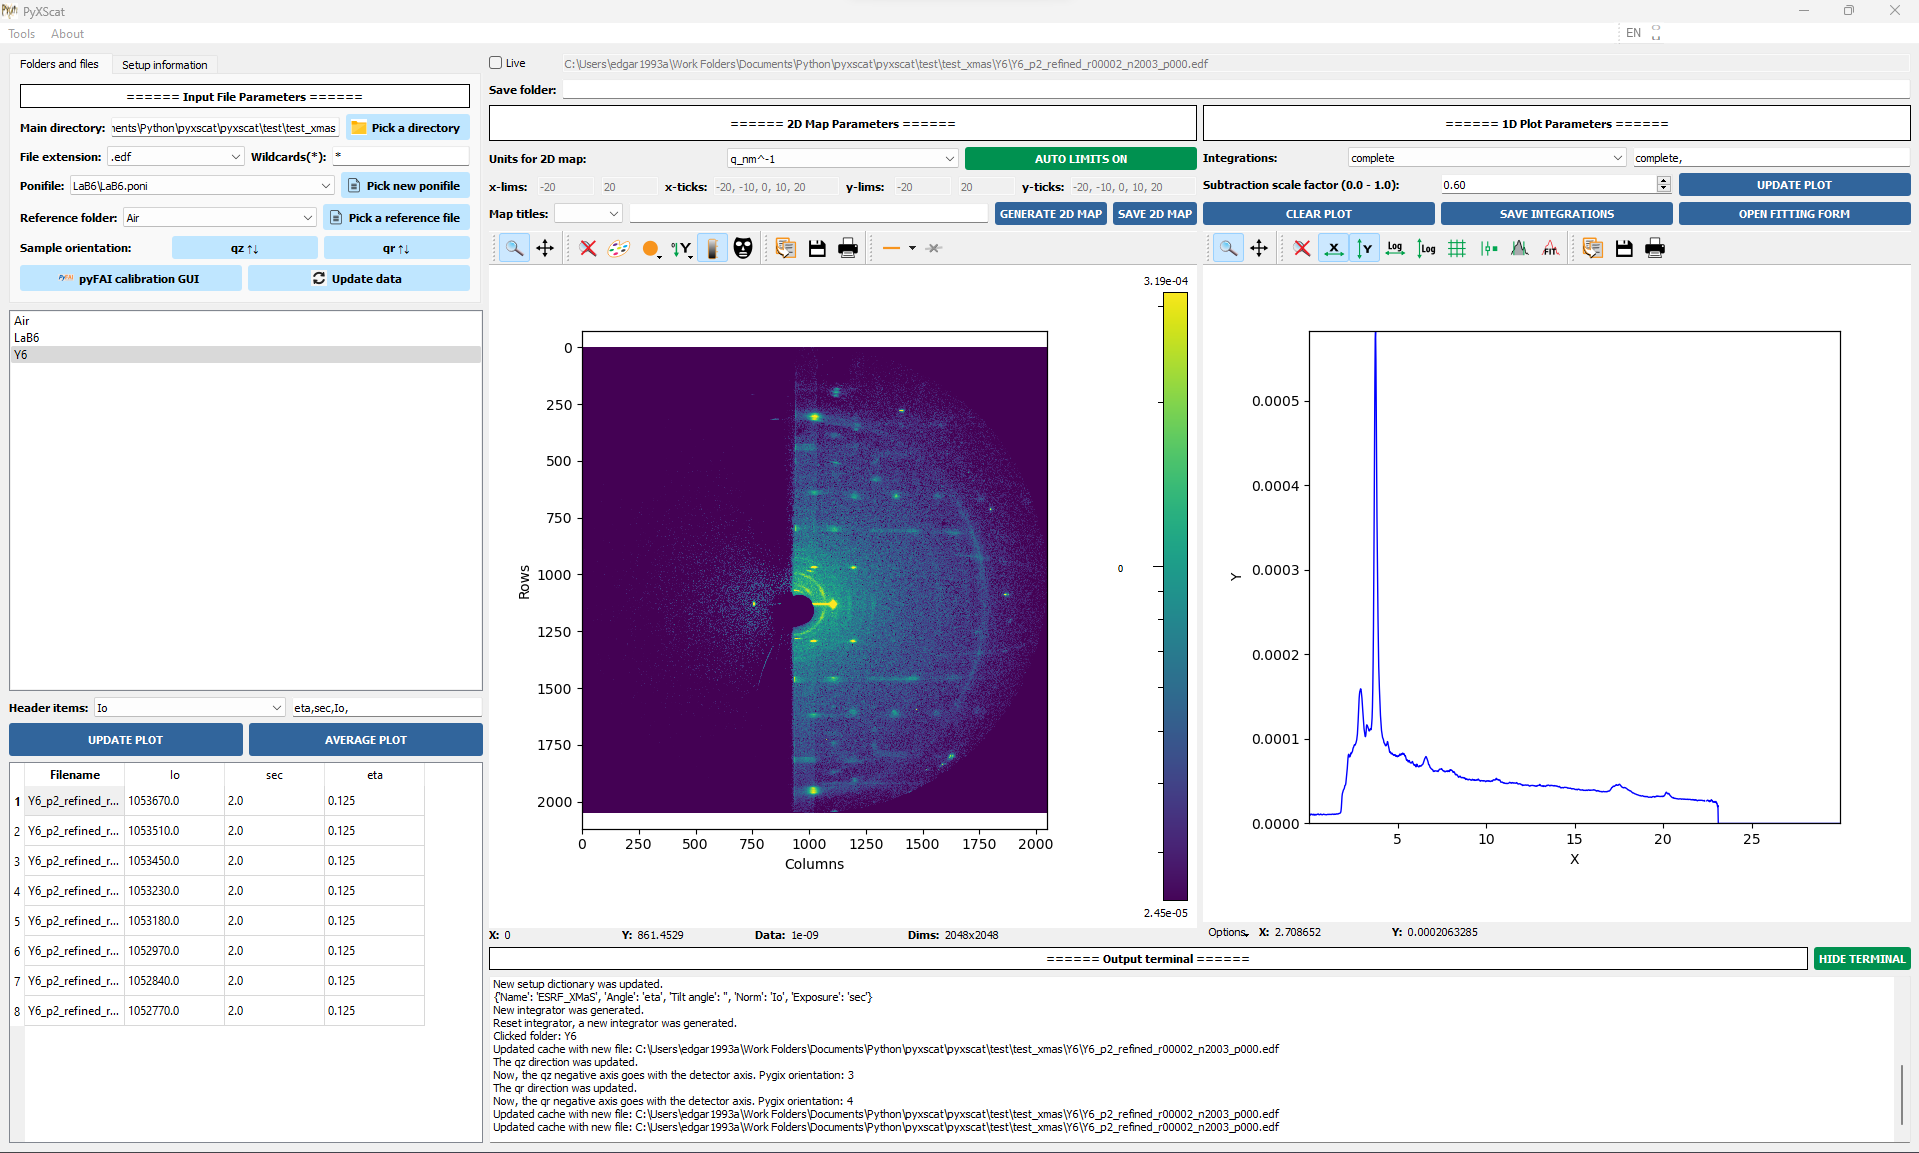
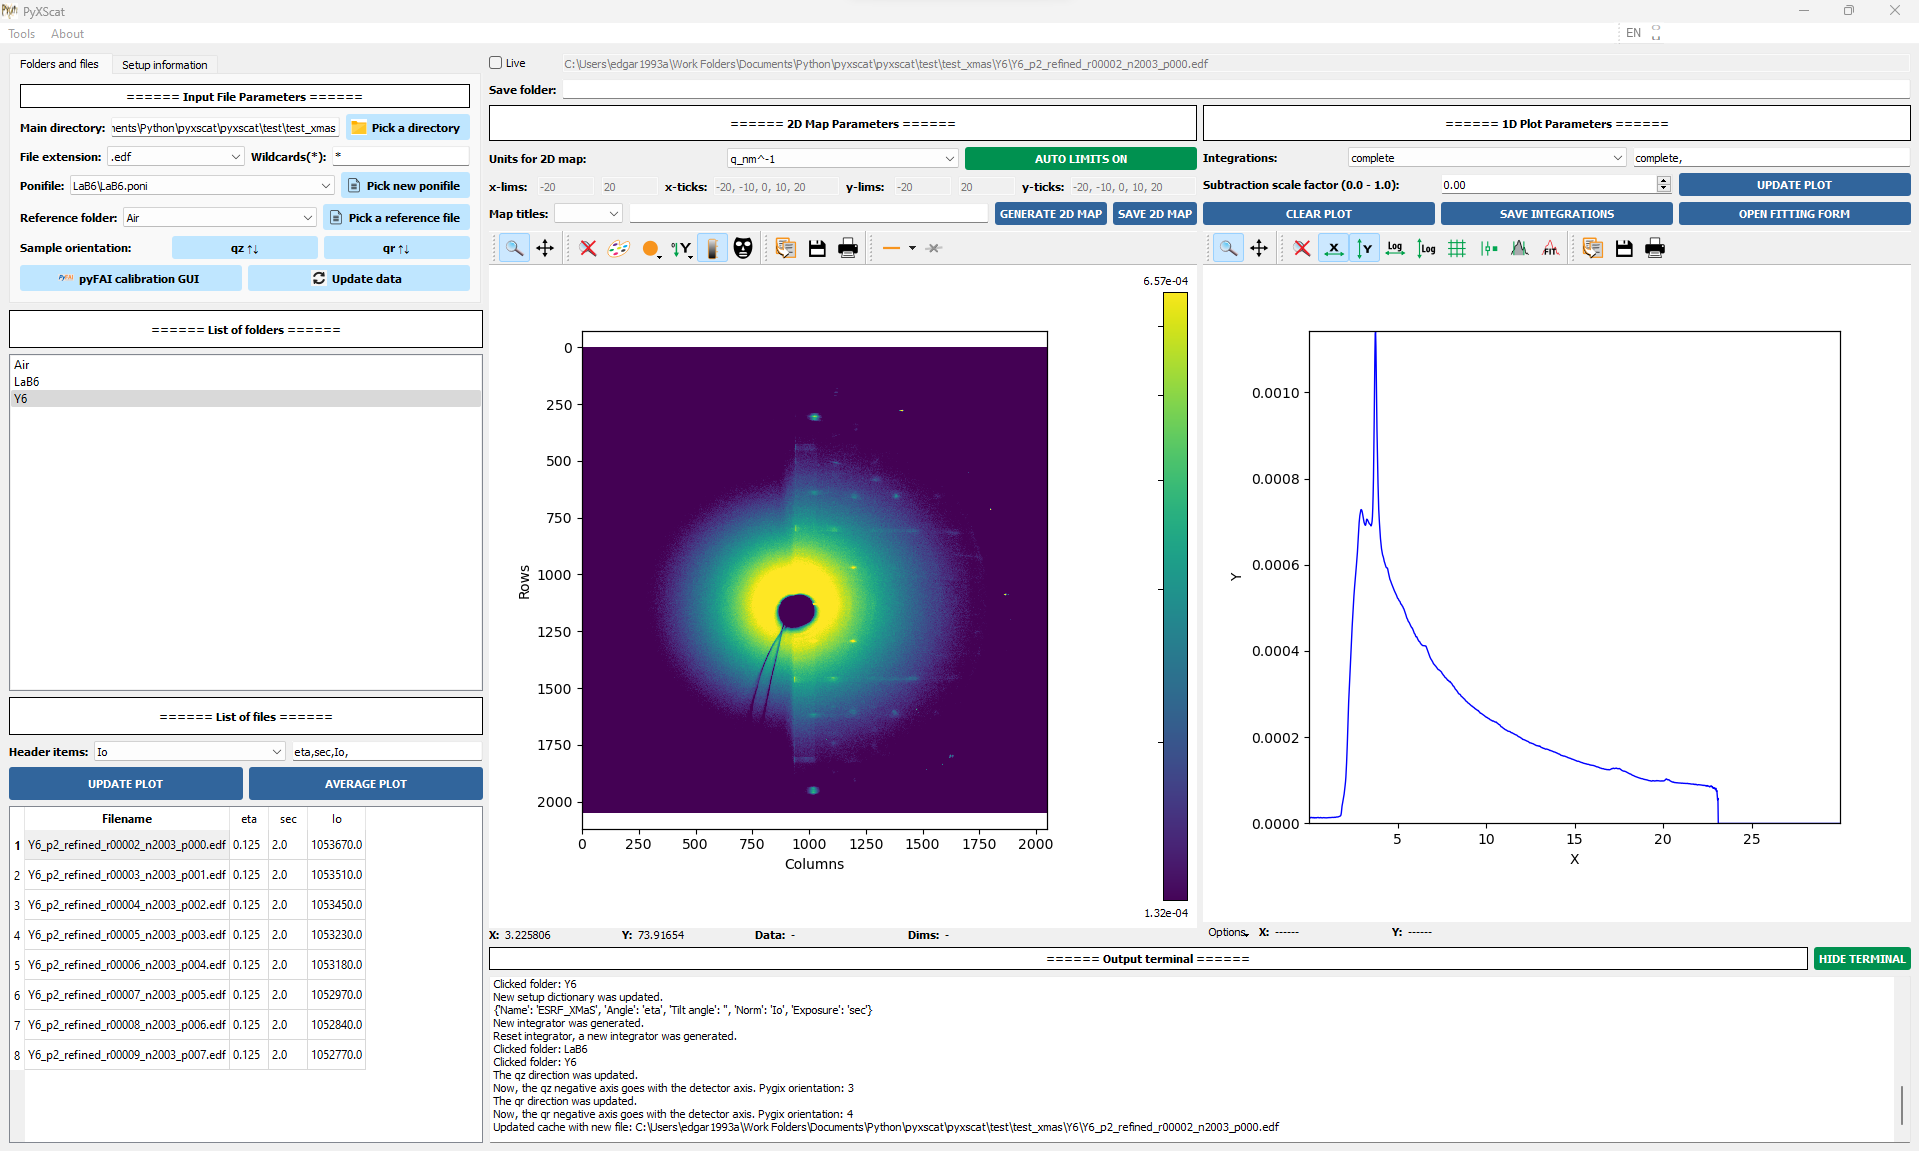
new README

diff --git a/pyxscat/modules_qt/gui_layout.py b/pyxscat/modules_qt/gui_layout.py
@@ -148,10 +148,13 @@ class GUIPyX_Widget_layout(QWidget):
         self.gridlayout.addLayout(self.grid_left,1,1)
         self.gridlayout.addLayout(self.grid_right,1,2)
 
-        self.grid_left.setRowStretch(1,2)
-        self.grid_left.setRowStretch(2,4)
-        self.grid_left.setRowStretch(3,1)
-        self.grid_left.setRowStretch(4,4)
+        self.grid_left.setRowStretch(1,6)
+        self.grid_left.setRowStretch(2,1)
+        self.grid_left.setRowStretch(3,9)
+        self.grid_left.setRowStretch(4,1)
+        self.grid_left.setRowStretch(5,2)
+        self.grid_left.setRowStretch(6,9)
+
         self.grid_right.setRowStretch(1,1)
         self.grid_right.setRowStretch(2,1)
         self.grid_right.setRowStretch(3,20)
@@ -169,15 +172,21 @@ class GUIPyX_Widget_layout(QWidget):
 
         self.widget_input_data.setLayout(self.grid_input_data)
         self.widget_input_info.setLayout(self.grid_input_info)
-
+        self.label_folders = QLabel("====== List of folders ======")
+        self.label_folders.setStyleSheet("background-color: white;border: 1px solid black;")
+        self.label_folders.setAlignment(Qt.AlignCenter)
+        self.label_files = QLabel("====== List of files ======")
+        self.label_files.setStyleSheet("background-color: white;border: 1px solid black;")
+        self.label_files.setAlignment(Qt.AlignCenter)
         self.listwidget_folders = QListWidget()
         self.grid_input_files = QGridLayout()
         self.table_files = QTableWidget()
         self.grid_left.addWidget(self.tab_input_data,1,1)
-        
-        self.grid_left.addWidget(self.listwidget_folders,2,1)
-        self.grid_left.addLayout(self.grid_input_files,3,1)
-        self.grid_left.addWidget(self.table_files,4,1)
+        self.grid_left.addWidget(self.label_folders,2,1)
+        self.grid_left.addWidget(self.listwidget_folders,3,1)
+        self.grid_left.addWidget(self.label_files,4,1)
+        self.grid_left.addLayout(self.grid_input_files,5,1)
+        self.grid_left.addWidget(self.table_files,6,1)
         
         self.grid_live_title = QGridLayout()
         self.grid_save = QGridLayout()
@@ -298,7 +307,7 @@ class GUIPyX_Widget_layout(QWidget):
         self.button_pyfaicalib.setStyleSheet(button_style_input)
         self.button_start.setStyleSheet(button_style_input)
 
-        set_bstyle([self.label_maindir, self.label_extension, self.label_conditions, self.label_ponifile, self.label_reffolder, self.label_sample_orientation, self.title_input])
+        set_bstyle([self.label_maindir, self.label_folders, self.label_files, self.label_extension, self.label_conditions, self.label_ponifile, self.label_reffolder, self.label_sample_orientation, self.title_input])
 
         self.grid_input_maindir.addWidget(self.label_maindir, 1, 1)
         self.grid_input_maindir.addWidget(self.lineedit_maindir, 1, 2)

diff --git a/README.md b/README.md
@@ -12,6 +12,8 @@ The main tool of PyXScat is its Graphical User Interface. The philosophy of PyXS
     - Bridge between data collection and deep data analysis.<br />
 
 <br /><br />
+![alt text](https://gitlab.esrf.fr/xmas-bm28/data_analysis/pyxscat/-/raw/main/PyXScat_screenshot_4.png)
+<br /><br />
 ![alt text](https://gitlab.esrf.fr/xmas-bm28/data_analysis/pyxscat/-/raw/main/PyXScat_screenshot.png)
 <br /><br />
 ![alt text](https://gitlab.esrf.fr/xmas-bm28/data_analysis/pyxscat/-/raw/main/PyXScat_screenshot_3.png)
@@ -27,6 +29,7 @@ git clone https://gitlab.esrf.fr/xmas-bm28/data_analysis/pyxscat.git
 
 ## 2) Once you have clone the project into your directory, install the module into your environment (conda, etc):
 ```
+cd pyxscat
 pip install .
 ```
 
